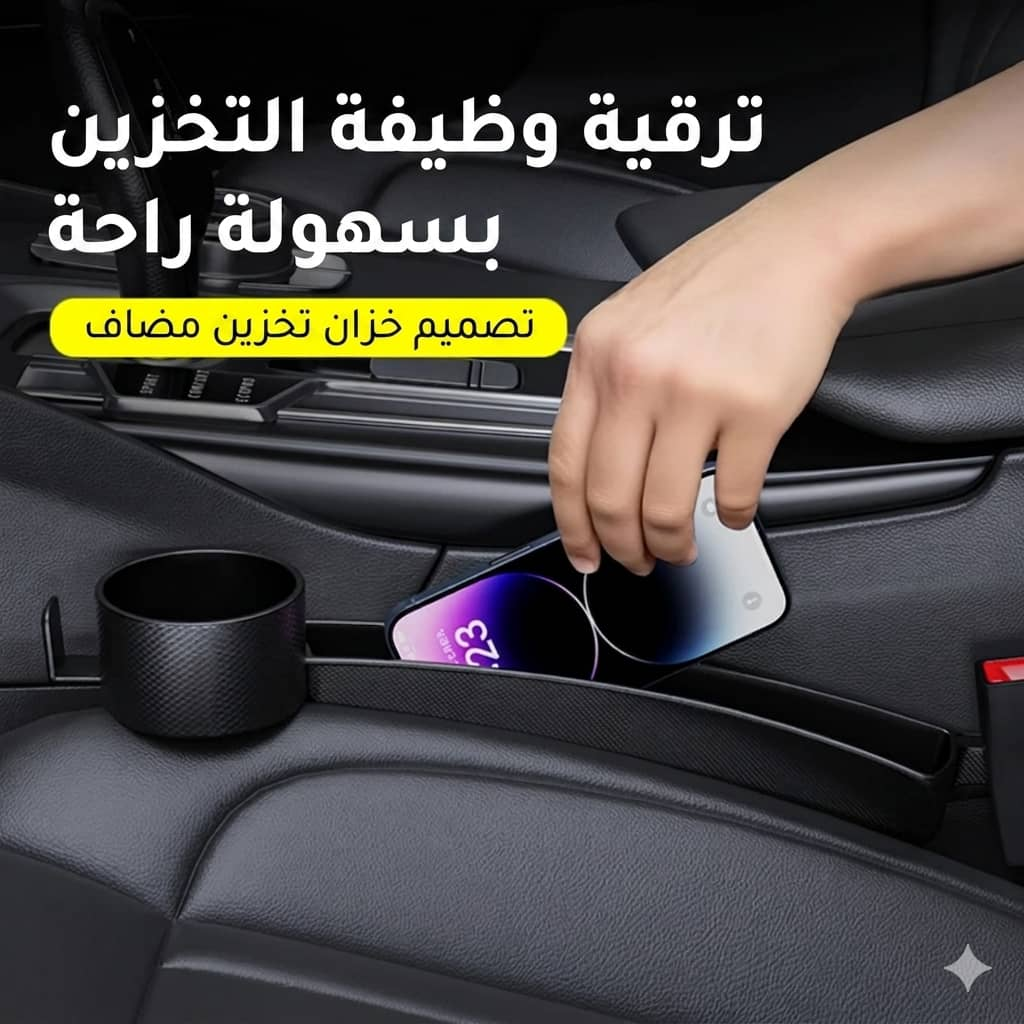
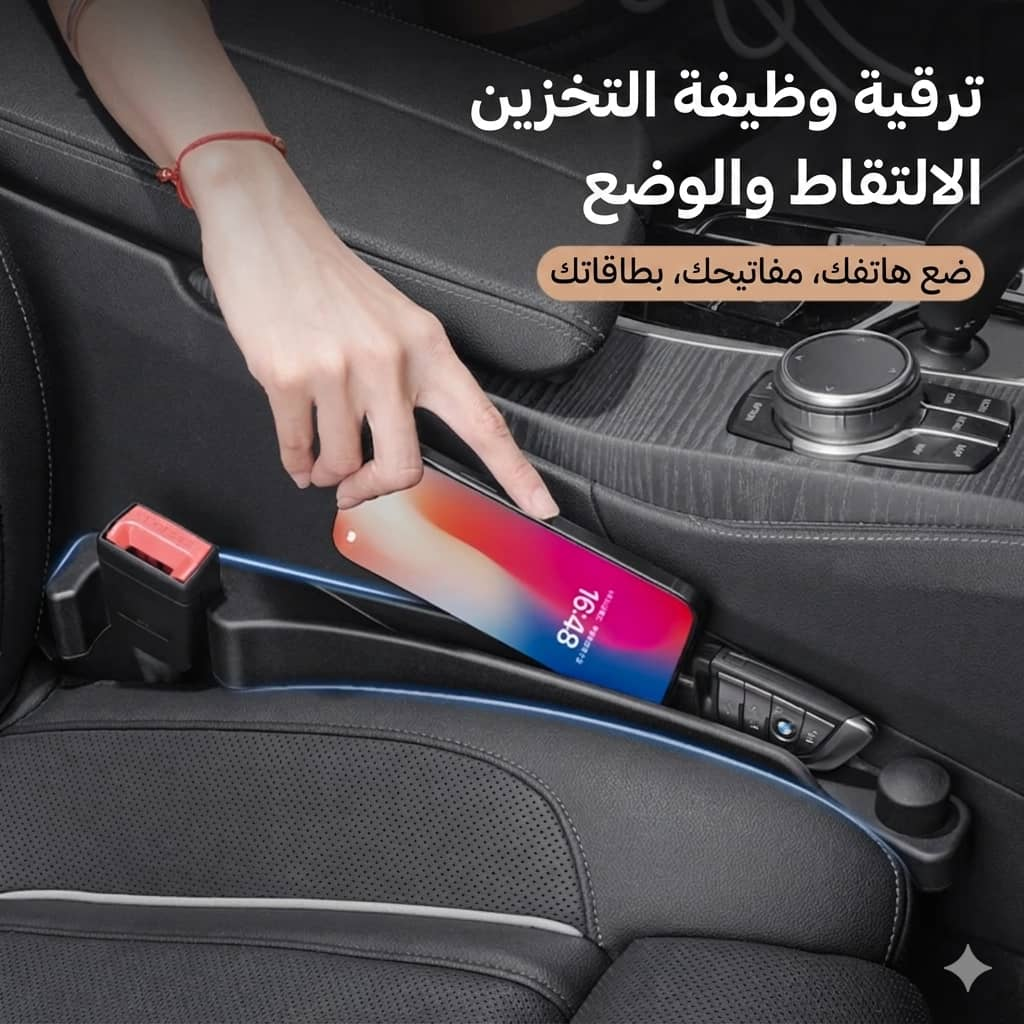
Replace seat gap protector PDP images with updated product photos.

diff --git a/frontend/src/data/seatgapPdp.ts b/frontend/src/data/seatgapPdp.ts
@@ -10,41 +10,41 @@ function assetUrl(a: string | StaticImageData): string {
   return typeof a === "string" ? a : a.src;
 }
 
-/** أقسام حامي فراغ المقعد — صور جديدة بنصوص مناسبة للصفحة */
+/** أقسام حامي فراغ المقعد */
 export const SEATGAP_STORY_BLOCKS: PdpZigzagBlock[] = [
   {
     key: "pair-overview",
-    title: "قطعتان لجهتي السيارة — شكل واضح واستعمال واقعي",
+    title: "قطعتان جاهزتان — لجهتي السيارة الأمامية",
     body:
-      "أعلى الصورة: الحامي داخل الفجوة بين المقعد والكونسول مع جيب طويل، حامل كوب، وهاتف ومفاتيح في متناول اليد دون أن تنهبط للأسفل. أسفلها: نموذجان مطابقان يبرزان الخطاف الصغير وجهاز حمل المشروبات — مفيد إن رغبت بوحدة لكل مقعد أمامي.",
+      "زوج من الحواجز السوداء المرنة يملآن الفجوة بين المقعد والكونسول. شكل مدمج مع خطاف للحزام — مناسب للسائق والراكب الأمامي.",
     imageSrc: assetUrl(i01),
   },
   {
     key: "storage-upgrade",
-    title: "تخزين إضافي بسهولة ووصول مريح",
+    title: "ترقية وظيفة التخزين — الالتقاط والوضع",
     body:
-      "يُظهر المشهد كيف ينزلق الهاتف في القناة الطويلة أمام حامل الكوب بدل أن يختفي في ثغرة ضيقة تُرهقك وقت الالتقاط. المادة سوداء بملمس أنيق يتماشى مع جلد المقاعد في أغلب السيارات الحديثة.",
+      "ضع هاتفك، مفاتيحك، وبطاقاتك في القناة الجانبية بدل ما تغرق بين المقعد والكونسول. وصول سريع أثناء القيادة دون لفّ تحت الموكيت.",
     imageSrc: assetUrl(i02),
   },
   {
     key: "dual-top",
-    title: "كلا الجانبين: سدّ الفجوة وتوسيع السطح المفيد",
+    title: "تخزين متعدد الوظائف — سهولة التعليق",
     body:
-      "منظور من الأعلى يوضح التركيب المتناظر للسائق وللسائق المساعد: يقلّل سقوط العملات والأقلام، ويضيف سطحاً جانبياً للأدوات الصغيرة مع بقاء أزرار الكونسول وسيل الأمان في موضعها الطبيعي.",
+      "سعة تحميل قوية: هاتف، شاحن، أو أغراض صغيرة تبقى معلّقة أو منزلقة في مكانها — بدون فوضى في الفجوة.",
     imageSrc: assetUrl(i03),
   },
   {
     key: "snug-integration",
-    title: "تكامل مع المقعد دون إزعاج التعديل أو الحزام",
+    title: "لا يؤثر على وظائف السيارة — حزام الأمان يعمل طبيعياً",
     body:
-      "القطعة تملأ الفراغ بإحكام وتُبقي مشبك حزام الأمان ظاهراً وجاهزاً للاستخدام. التصميم يهدف لثبات بصري ومادي أثناء القيادة دون تحميلك بتعديل معقّد في أول أيام التركيب.",
+      "محكم الارتباط ولا يسقط: مشبك الحزام يبقى ظاهراً وجاهزاً للاستخدام كما في السيارة الأصلية.",
     imageSrc: assetUrl(i04),
   },
   {
     key: "moves-with-seat",
-    title: "تتحرّك مع ضبط المقعد وتبقى بملء سلِس للفجوة",
+    title: "تركيب غير تدميري — ثابت من أول وضع",
     body:
-      "عند جذب المقعد للأمام أو الخلف يبقى الحامي في دوره كسدادة عملية؛ السهم المرئي في الصورة يوضّح انسياب استعمال المقعد مع بقاء الملحق ضمن مسار الثغرة — أقل لفّ خلف الموكيت وضغط نفسي في الزحام.",
+      "وصّله واضغطه في الفجوة — لم تعد فوضى عند زوال الفراغ. لا حاجة لأدوات أو تعديل دائم على السيارة.",
     imageSrc: assetUrl(i05),
   },
 ];

diff --git a/src/data/seatgapPdp.js b/src/data/seatgapPdp.js
@@ -5,37 +5,37 @@ function asset(name) {
 export const SEATGAP_STORY_BLOCKS = [
   {
     key: "pair-overview",
-    title: "قطعتان لجهتي السيارة — شكل واضح واستعمال واقعي",
+    title: "قطعتان جاهزتان — لجهتي السيارة الأمامية",
     body:
-      "أعلى الصورة: الحامي داخل الفجوة بين المقعد والكونسول مع جيب طويل، حامل كوب، وهاتف ومفاتيح في متناول اليد دون أن تنهبط للأسفل. أسفلها: نموذجان مطابقان يبرزان الخطاف الصغير وجهاز حمل المشروبات — مفيد إن رغبت بوحدة لكل مقعد أمامي.",
+      "زوج من الحواجز السوداء المرنة يملآن الفجوة بين المقعد والكونسول. شكل مدمج مع خطاف للحزام — مناسب للسائق والراكب الأمامي.",
     imageSrc: asset("01-composite.png"),
   },
   {
     key: "storage-upgrade",
-    title: "تخزين إضافي بسهولة ووصول مريح",
+    title: "ترقية وظيفة التخزين — الالتقاط والوضع",
     body:
-      "يُظهر المشهد كيف ينزلق الهاتف في القناة الطويلة أمام حامل الكوب بدل أن يختفي في ثغرة ضيقة تُرهقك وقت الالتقاط. المادة سوداء بملمس أنيق يتماشى مع جلد المقاعد في أغلب السيارات الحديثة.",
+      "ضع هاتفك، مفاتيحك، وبطاقاتك في القناة الجانبية بدل ما تغرق بين المقعد والكونسول. وصول سريع أثناء القيادة دون لفّ تحت الموكيت.",
     imageSrc: asset("02-phone-slot.png"),
   },
   {
     key: "dual-top",
-    title: "كلا الجانبين: سدّ الفجوة وتوسيع السطح المفيد",
+    title: "تخزين متعدد الوظائف — سهولة التعليق",
     body:
-      "منظور من الأعلى يوضح التركيب المتناظر للسائق وللسائق المساعد: يقلّل سقوط العملات والأقلام، ويضيف سطحاً جانبياً للأدوات الصغيرة مع بقاء أزرار الكونسول وسيل الأمان في موضعها الطبيعي.",
+      "سعة تحميل قوية: هاتف، شاحن، أو أغراض صغيرة تبقى معلّقة أو منزلقة في مكانها — بدون فوضى في الفجوة.",
     imageSrc: asset("03-dual-cabin.png"),
   },
   {
     key: "snug-integration",
-    title: "تكامل مع المقعد دون إزعاج التعديل أو الحزام",
+    title: "لا يؤثر على وظائف السيارة — حزام الأمان يعمل طبيعياً",
     body:
-      "القطعة تملأ الفراغ بإحكام وتُبقي مشبك حزام الأمان ظاهراً وجاهزاً للاستخدام. التصميم يهدف لثبات بصري ومادي أثناء القيادة دون تحميلك بتعديل معقّد في أول أيام التركيب.",
+      "محكم الارتباط ولا يسقط: مشبك الحزام يبقى ظاهراً وجاهزاً للاستخدام كما في السيارة الأصلية.",
     imageSrc: asset("04-snug-fit.png"),
   },
   {
     key: "moves-with-seat",
-    title: "تتحرّك مع ضبط المقعد وتبقى بملء سلِس للفجوة",
+    title: "تركيب غير تدميري — ثابت من أول وضع",
     body:
-      "عند جذب المقعد للأمام أو الخلف يبقى الحامي في دوره كسدادة عملية؛ السهم المرئي في الصورة يوضّح انسياب استعمال المقعد مع بقاء الملحق ضمن مسار الثغرة — أقل لفّ خلف الموكيت وضغط نفسي في الزحام.",
+      "وصّله واضغطه في الفجوة — لم تعد فوضى عند زوال الفراغ. لا حاجة لأدوات أو تعديل دائم على السيارة.",
     imageSrc: asset("05-seat-adjust.png"),
   },
 ];

diff --git a/frontend/src/components/ProductPdpZigzag.tsx b/frontend/src/components/ProductPdpZigzag.tsx
@@ -53,13 +53,15 @@ export function ProductPdpZigzag({
                 />
               </div>
             </div>
-            <div className="w-full lg:flex-1 text-right flex flex-col justify-center space-y-4 md:space-y-5">
-              <h3 className="text-xl sm:text-2xl md:text-3xl font-black text-navy leading-snug">
-                {b.title}
-              </h3>
-              <p className="text-navy/78 leading-relaxed text-base md:text-xl max-w-xl lg:max-w-none">
-                {b.body}
-              </p>
+            <div className="w-full lg:flex-1 flex flex-col justify-center">
+              <div className="text-right rounded-2xl border border-navy/10 bg-gradient-to-br from-white via-white to-navy/[0.05] shadow-xl ring-1 ring-navy/10 p-6 sm:p-7 md:p-8 space-y-4 md:space-y-5 h-full">
+                <h3 className="text-xl sm:text-2xl md:text-3xl font-black text-navy leading-snug">
+                  {b.title}
+                </h3>
+                <p className="text-navy/78 leading-relaxed text-base md:text-xl max-w-xl lg:max-w-none">
+                  {b.body}
+                </p>
+              </div>
             </div>
           </article>
         ))}

diff --git a/src/styles.css b/src/styles.css
@@ -1010,7 +1010,15 @@ img { display: block; max-width: 100%; }
     max-height: 520px;
   }
 }
-.pdp-zigzag-text { flex: 1; text-align: right; }
+.pdp-zigzag-text {
+  flex: 1;
+  text-align: right;
+  border-radius: var(--radius-xl);
+  border: 1px solid rgba(11, 22, 40, 0.1);
+  background: linear-gradient(135deg, #fff 0%, #fff 55%, rgba(11, 22, 40, 0.04) 100%);
+  box-shadow: 0 12px 40px rgba(11, 22, 40, 0.1);
+  padding: clamp(1.25rem, 3vw, 2rem);
+}
 .pdp-zigzag-heading {
   font-size: clamp(1.15rem, 2vw, 1.5rem);
   font-weight: 800;
